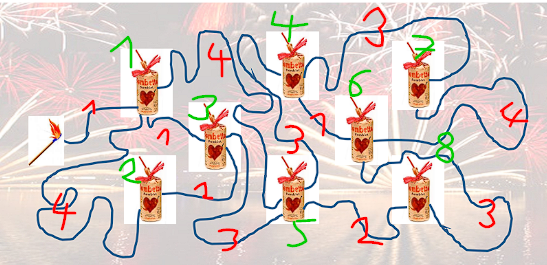
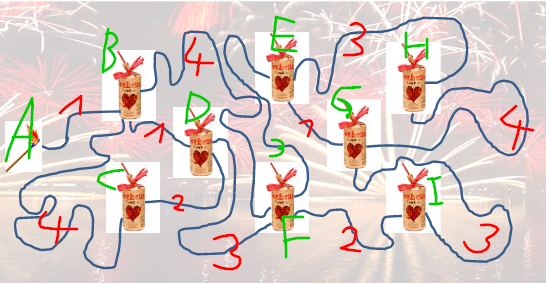
Added Problem 4

diff --git a/code/Problem4.java b/code/Problem4.java
@@ -1,0 +1,176 @@
+package code;
+
+import java.awt.Dimension;
+import java.awt.GridLayout;
+import java.io.FileNotFoundException;
+import java.io.IOException;
+import java.util.ArrayList;
+import java.util.Comparator;
+import java.util.PriorityQueue;
+
+import javax.swing.JLabel;
+import javax.swing.JPanel;
+
+import code.utils.AdjazenzMatrix;
+import code.utils.BasicWindow;
+import code.utils.Edge;
+import code.utils.FileHandler;
+import code.utils.JGraphPanel;
+import code.utils.Vertex;
+
+public class Problem4 extends BasicWindow {
+
+  private ArrayList<Vertex> vertices = new ArrayList<>();
+
+  public Problem4(String title) throws FileNotFoundException, IOException {
+    super(title);
+
+    setSize(new Dimension(1020, 460));
+    setLayout(new GridLayout(1, 3));
+    setLocationRelativeTo(null);
+
+    // Initializiere FileHandler und lese die Daten aus der Datei
+    FileHandler fh = new FileHandler("problem4.txt");
+
+    // Erstelle die Adjazenzmatrix und gebe sie in der Konsole aus
+    AdjazenzMatrix am_input = new AdjazenzMatrix("Input", fh.getMatrix(), fh.getVertexLetters(), false);
+    am_input.printMatrix();
+
+    int[][] matrix_output = dijkstra(am_input);
+
+    // Erstelle die Ausgabe-Adjazenzmatrix, gebe sie in der Konsole aus und schreibe
+    // sie in eine Datei
+    AdjazenzMatrix am_output = new AdjazenzMatrix("Output", matrix_output,
+        fh.getVertexLetters(), false);
+    am_output.printAndWriteMatrix(title);
+
+    // Erstelle die Graphen und füge sie dem Fenster hinzu
+    JGraphPanel p1 = new JGraphPanel("Rohdaten", am_input, "circle");
+    JGraphPanel p2 = new JGraphPanel("Kürzester Weg zu jedem Knoten (Dijkstra)", am_output, "circle");
+
+    add(p1);
+    add(p2);
+
+    JPanel sidepanel = new JPanel();
+    String info = "<h3>Bestimmung des kürzesten Weges mit Dijkstra</h3><br><br>"
+        + "<h3>Reihenfolge bei Zündung des Steichholzes:</h3>" + "<br>";
+
+    for (int i = 0; i < vertices.size(); i++)
+      info += i + 1 + ". " + vertices.get(i).getLetter() + " mit einer Distanz von => "
+          + vertices.get(i).getKey() + "<br><br>";
+
+    sidepanel.add(new JLabel("<html>" + info + "</html>"));
+    add(sidepanel);
+  }
+
+  private int[][] dijkstra(AdjazenzMatrix input) {
+
+    int[][] matrix = input.getMatrixCopy();
+    char[] vertexLetters = input.getVertexLetters();
+
+    // Generiere eine Liste aller Knoten
+    for (int i = 0; i < matrix.length; i++)
+      vertices.add(new Vertex(vertexLetters[i], 0));
+
+    ArrayList<Edge> edges = getEdges(matrix, vertexLetters);
+
+    // Initialisiere die Distanz im Startknoten mit 0 und in allen anderen Knoten
+    // mit ∞.
+    for (Vertex vertex : vertices) {
+      vertex.setKey(Integer.MAX_VALUE);
+      vertex.setPredecessor(null);
+    }
+    vertices.get(0).setKey(0);
+
+    // Speichere alle Knoten in einer Prioritätswarteschlange queue
+    PriorityQueue<Vertex> queue = new PriorityQueue<Vertex>(
+        Comparator.comparingInt(Vertex::getKey));
+    queue.addAll(vertices);
+
+    // Solange es noch unbesuchte Knoten gibt, wähle darunter denjenigen mit
+    // minimaler Distanz aus und
+    while (!queue.isEmpty()) {
+      // Nehme den Knoten mit dem kleinsten Wert aus der Warteschlange
+      Vertex v = queue.poll();
+
+      // 1. speichere, dass dieser Knoten schon besucht wurde
+      v.setVisited(true);
+
+      // 2. berechne für alle noch unbesuchten Nachbarknoten die Summe des jeweiligen
+      // Kantengewichtes und der Distanz im aktuellen Knoten
+      for (Vertex n : getNeighbors(v, vertices, edges)) {
+
+        // 3. ist dieser Wert für einen Knoten kleiner als die
+        // dort gespeicherte Distanz, aktualisiere sie und setze den aktuellen Knoten
+        // als Vorgänger. (Dieser Schritt wird auch als Update bezeichnet. )
+        int sum = v.getKey() + getWeightSum(v, n, edges);
+
+        if (sum >= n.getKey())
+          continue;
+
+        n.setKey((int) sum);
+        n.setPredecessor(v);
+        // Aktualisiere die Prioritätswarteschlange
+        queue.remove(n);
+        queue.add(n);
+      }
+    }
+
+    // Sortiere Knoten nach Distanz
+    vertices.sort(Comparator.comparingInt(Vertex::getKey));
+
+    // Erstelle eine neue Adjazenzmatrix, die den jeweils kürzesten Weg zu jedem
+    // Knoten enthält
+    int[][] matrix_output = new int[matrix.length][matrix.length];
+
+    for (Vertex vertex : vertices) {
+      if (vertex.getPredecessor() == null)
+        continue;
+      matrix_output[vertex.getPredecessor().getLetter() - 'A'][vertex.getLetter() - 'A'] = vertex.getKey();
+      matrix_output[vertex.getLetter() - 'A'][vertex.getPredecessor().getLetter() - 'A'] = vertex.getKey();
+    }
+
+    return matrix_output;
+  }
+
+  private ArrayList<Edge> getEdges(int[][] matrix, char[] vertexLetters) {
+    ArrayList<Edge> edges = new ArrayList<>();
+
+    // Iteriere über die Adjazenzmatrix und füge alle Kanten der Liste hinzu
+    for (int i = 0; i < matrix.length; i++)
+      for (int j = 0; j < matrix.length; j++)
+        if (matrix[i][j] != 0)
+          edges.add(new Edge(vertexLetters[i], vertexLetters[j], matrix[i][j]));
+
+    return edges;
+  }
+
+  private ArrayList<Vertex> getNeighbors(Vertex u, ArrayList<Vertex> vertices, ArrayList<Edge> edges) {
+    // neue Liste für nachbarn
+    ArrayList<Vertex> neighbors = new ArrayList<Vertex>();
+
+    for (Edge e : edges) {
+      // Überspringe Kanten, die nicht mit dem Knoten verbunden sind
+      if (e.getSource() != u.getLetter() && e.getTarget() != u.getLetter())
+        continue;
+      // Finde vertex v anhand der source/target, der mit u verbunden ist und füge ihn
+      // der Liste hinzu
+      for (Vertex v : vertices)
+        if ((v.getLetter() == e.getSource() || v.getLetter() == e.getTarget()) && v != u)
+          neighbors.add(v);
+    }
+    return neighbors;
+  }
+
+  private int getWeightSum(Vertex u, Vertex v, ArrayList<Edge> edges) {
+    int sum = 0;
+    for (Edge e : edges) {
+      if (e.getSource() == u.getLetter() && e.getTarget() == v.getLetter())
+        sum += e.getWeight();
+      if (e.getSource() == v.getLetter() && e.getTarget() == u.getLetter())
+        sum += e.getWeight();
+    }
+    return sum;
+  }
+
+}

diff --git a/code/utils/Vertex.java b/code/utils/Vertex.java
@@ -5,6 +5,7 @@ public class Vertex {
   private char letter;
   private int key;
   private Vertex predecessor;
+  private boolean visited;
 
   public Vertex(char letter, int value, Vertex predecessor) {
     this.letter = letter;
@@ -34,6 +35,14 @@ public class Vertex {
 
   public void setPredecessor(Vertex predecessor) {
     this.predecessor = predecessor;
+  }
+
+  public boolean isVisited() {
+    return this.visited;
+  }
+
+  public void setVisited(boolean visited) {
+    this.visited = visited;
   }
 
   @Override

diff --git a/code/Main.java b/code/Main.java
@@ -72,7 +72,7 @@ public class Main extends JFrame {
           new Problem3(label);
           break;
         case 4:
-          // new Problem4(label);
+          new Problem4(label);
           break;
         case 5:
           // new Problem5(label);
